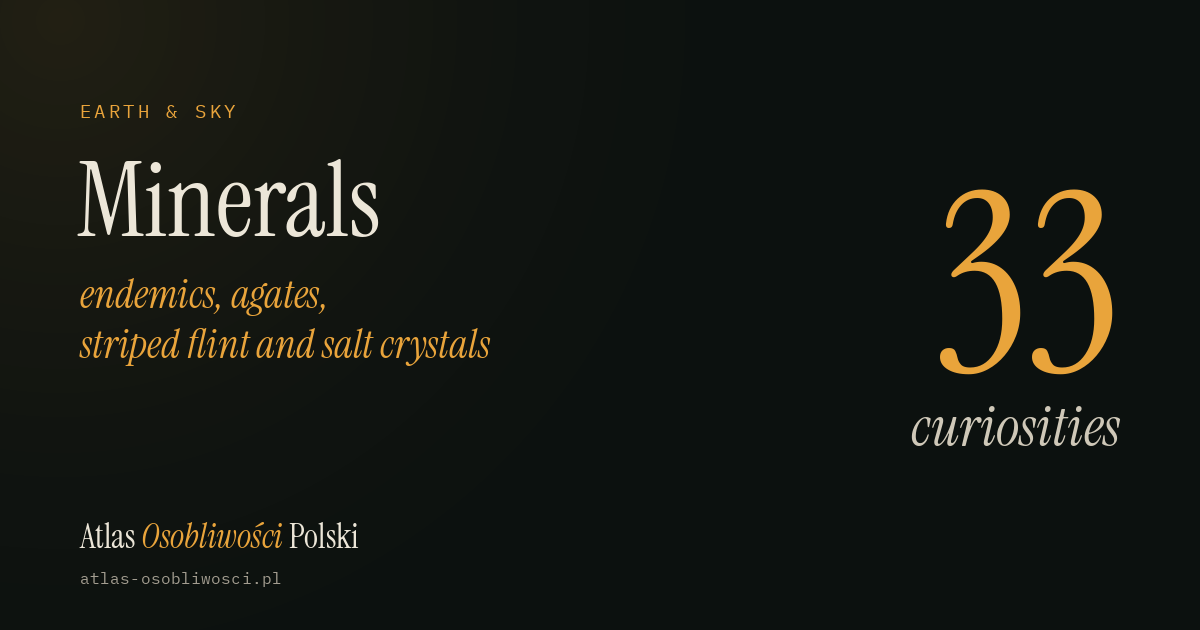
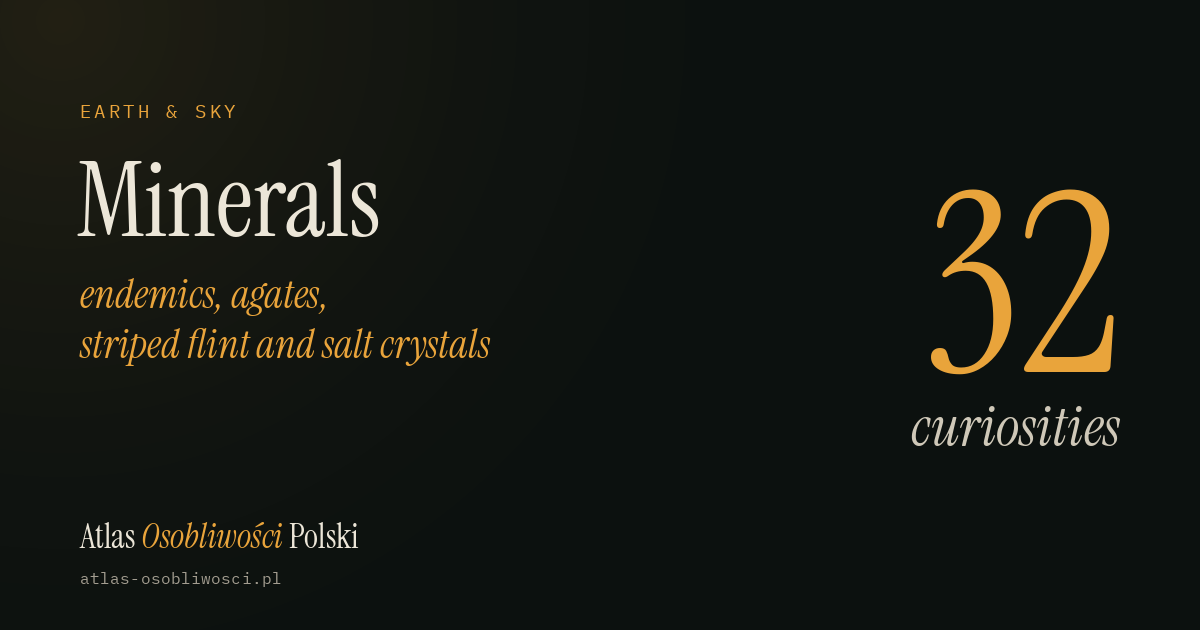
content: F0801 after the Elements page; "Berylokordieryt-Na" withdrawn (IMA discredited it in 2025)
Robert uploaded the PDF of the Elements page (20(2): 134, April 2024) that
F0801 cites; the site itself shows a Cloudflare challenge. Two independent
reads and a judge:
- the page confirms the formula, IMA 2022-109 and the kinship with
  cordierite, but never compares the mineral with beryllocordierite-Na, so
  "the manganese sibling of beryllocordierite-Na" was our own inference;
- CNMNC Newsletter 87 (Mineralogical Magazine 89, 26.09.2025,
  doi:10.1180/mgm.2025.10163): "The minerals avdeevite and
  beryllocordierite-Na have been discredited; beryllosachanbińskiite-Na has
  been redefined to sachanbińskiite".
F0801 (corrected, Newsletter 87 added): "Zatwierdzony przez IMA jako
berylosachanbińskiit-Na: NaMn₄(Al₅Be)(AlSi₅O₁₈)₂·2H₂O (IMA 2022-109). Miejsce
typowe: pegmatyt koło Szklar." / "Approved by the IMA as …".

By Robert's decision the card "Berylokordieryt-Na", which still presented the
discredited mineral as new, leaves the atlas: WITHDRAWN.cards with the reason;
the card, its English texts and its stand-in photo are removed; "Minerały" has
32 cards (subtitle and count label in PL and EN, collection test); the search
index, start page, map points and the minerals link-preview images are
rebuilt. Its two facts (F0799, F0800) stay in the facts file, hidden, as the
validator allows. The atlas now shows 1456 facts on 627 cards: 860 verified,
536 corrected, 60 checked. Docs: sprawdzenie-checked-2026-11.md and
README-weryfikacja.md.
[…]

Changed region(s): [[0.7708, 0.3016, 0.925, 0.6032]]

diff --git a/data/collections.js b/data/collections.js
@@ -174,9 +174,9 @@
       group: "ziemia-niebo",
       title: "Minerały",
       heading: "Osobliwe minerały Polski",
-      subtitle: "33 mineralogiczne osobliwości Polski: endemity IMA, kruszce, sole, agaty, krzemień pasiasty, bursztyn i minerały z dawnych kopalń.",
+      subtitle: "32 mineralogiczne osobliwości Polski: endemity IMA, kruszce, sole, agaty, krzemień pasiasty, bursztyn i minerały z dawnych kopalń.",
       teaser: "endemity, agaty, krzemień pasiasty i kryształy soli",
-      count_label: "33 osobliwości",
+      count_label: "32 osobliwości",
       card_labels: { region: "Miejsce", habitat: "Środowisko geologiczne" },
       icon: "M",
       accent: "stone",
@@ -465,7 +465,8 @@
       "formacje-skalne/zezow-czarne-dzialy": "Zęzów i Czarne Działy: nie wiadomo, o które miejsce chodzi; potwierdzona jest tylko wysokość Zęzowa (C111).",
       "skamienialosci/tholodus-schmidi": "Tholodus schmidi: brak publikacji o znaleziskach z Polski (C127).",
       "architektura-drewniana/chata-na-wysokosci": "Chata na Wysokości: prywatna kwatera, historia tylko według właścicieli, bez ciekawostek i bez zdjęcia obiektu (C144).",
-      "atmosfera-astronomia/rekord-godziszow-zadni-gerlach": "Godziszów i Zadni Gerlach: rekordowego zdjęcia z 30.01.2025 (246,1 km) nie potwierdza żadne niezależne źródło, a widok Tatr z daleka opisuje karta „Tatry z Wyżyny Lubelskiej” (31.10.2026)."
+      "atmosfera-astronomia/rekord-godziszow-zadni-gerlach": "Godziszów i Zadni Gerlach: rekordowego zdjęcia z 30.01.2025 (246,1 km) nie potwierdza żadne niezależne źródło, a widok Tatr z daleka opisuje karta „Tatry z Wyżyny Lubelskiej” (31.10.2026).",
+      "mineraly/berylokordieryt-na": "Berylokordieryt-Na: Komisja IMA-CNMNC zdyskredytowała ten minerał we wrześniu 2025 r. (CNMNC Newsletter 87, Mineralogical Magazine 89, doi:10.1180/mgm.2025.10163), więc nie jest już uznanym minerałem. Historię minerałów ze Szklar opowiada karta Sachanbińskiit."
     },
     facts: {},
     numbers: []

diff --git a/data/facts/mineraly.facts.js b/data/facts/mineraly.facts.js
@@ -348,8 +348,8 @@ window.ATLAS_FACTS["mineraly"] = {
     {
      "id": "F0801",
      "icon": "🆕",
-     "pl": "Manganowy „brat” berylokordierytu-Na: NaMn₄(Al₅Be)(AlSi₅O₁₈)₂·2H₂O (IMA 2022-109), także ze Szklar.",
-     "en": "The manganese “sibling” of beryllocordierite-Na: NaMn₄(Al₅Be)(AlSi₅O₁₈)₂·2H₂O (IMA 2022-109), also from Szklary.",
+     "pl": "Zatwierdzony przez IMA jako berylosachanbińskiit-Na: NaMn₄(Al₅Be)(AlSi₅O₁₈)₂·2H₂O (IMA 2022-109). Miejsce typowe: pegmatyt koło Szklar.",
+     "en": "Approved by the IMA as beryllosachanbińskiite-Na: NaMn₄(Al₅Be)(AlSi₅O₁₈)₂·2H₂O (IMA 2022-109). Type locality: a pegmatite near Szklary.",
      "sources": [
       {
        "url": "https://doi.org/10.2138/gselements.20.2.134",
@@ -362,9 +362,13 @@ window.ATLAS_FACTS["mineraly"] = {
       {
        "url": "https://doi.org/10.1180/mgm.2023.21",
        "label": "doi.org"
+      },
+      {
+       "url": "https://doi.org/10.1180/mgm.2025.10163",
+       "label": "doi.org"
       }
      ],
-     "status": "checked"
+     "status": "corrected"
     },
     {
      "id": "F0802",

diff --git a/data/i18n/mineraly.en.js b/data/i18n/mineraly.en.js
@@ -58,17 +58,6 @@ window.ATLAS_ITEM_TEXT_EN["mineraly"] = {
     "level": "scientific jewel",
     "latin": "sodium-calcium amphibole with Sc"
   },
-  "berylokordieryt-na": {
-    "name": "Beryllocordierite-Na",
-    "hook": "A new mineral from the Szklary Massif is a reminder that beryllium does not always end up as a showy beryl crystal.",
-    "quiz_angle": "beryllium, sodium, the Szklary pegmatites and structural kinship with cordierite",
-    "safety_note": "Do not break up pegmatite veins in the field; sites of rare minerals are easy to destroy.",
-    "region": "The Szklary Massif in Lower Silesia.",
-    "habitat": "Pegmatite veins and rocks strongly enriched in light elements.",
-    "occurrence": "In the atlas it shows the stage at which pegmatite chemistry becomes so specialized that new phases form.",
-    "level": "micro-curiosity",
-    "latin": "hydrated beryllium silicate"
-  },
   "berylosachanbinskiit-na": {
     "name": "Sachanbińskiite",
     "hook": "One of the most specialized cards in the collection: a beryllium-manganese mineral from Polish pegmatites.",

diff --git a/data/search-index.js b/data/search-index.js
@@ -285,7 +285,6 @@ window.ATLAS_SEARCH = {
     ["mineraly","taliomelan","Taliomelan","Thalliomelane","tlenek manganu i talu (grupa koronadytu)","manganese thallium oxide (coronadite group)"],
     ["mineraly","heflikit","Heflikit","Heflikite","minerał supergrupy epidotu ze skandem","epidote-supergroup mineral with scandium"],
     ["mineraly","skandiowinchit","Skandiowinchit","Scandio-winchite","amfibol sodowo-wapniowy ze Sc","sodium-calcium amphibole with Sc"],
-    ["mineraly","berylokordieryt-na","Berylokordieryt-Na","Beryllocordierite-Na","uwodniony krzemian berylu","hydrated beryllium silicate"],
     ["mineraly","berylosachanbinskiit-na","Sachanbińskiit","Sachanbińskiite","glinokrzemian berylu i manganu (grupa kordierytu)","beryllium manganese aluminosilicate (cordierite group)","Berylosachanbińskiit-Na"],
     ["mineraly","magnesiodutrowit","Magnesiodutrowit","Magnesio-dutrowite","turmalin magnezowy","magnesium tourmaline"],
     ["mineraly","krzemien-pasiasty","Krzemień pasiasty","Striped flint","SiO2 - kwarc, chalcedon i opal","SiO2 - quartz, chalcedony and opal"],

diff --git a/data/minerals.js b/data/minerals.js
@@ -88,19 +88,6 @@
       level: "naukowy klejnot"
     }),
     entry({
-      id: "berylokordieryt-na",
-      name_pl: "Berylokordieryt-Na",
-      name_lat: "uwodniony krzemian berylu",
-      category: "endemity-nowe-mineraly",
-      hook: "Nowy minerał z masywu Szklar przypomina, że beryl nie zawsze kończy jako efektowny kryształ berylu.",
-      quiz_angle: "beryl, sód, pegmatyty Szklar i strukturalne pokrewieństwo z kordierytem",
-      safety_note: "nie rozbijać żył pegmatytowych w terenie; stanowiska rzadkich minerałów są łatwe do zniszczenia",
-      region_pl: "Masyw Szklar na Dolnym Śląsku.",
-      habitat_pl: "Żyły pegmatytowe i skały silnie wzbogacone w pierwiastki lekkie.",
-      occurrence_note: "W atlasie pokazuje etap, w którym chemia pegmatytu staje się tak wyspecjalizowana, że powstają nowe fazy.",
-      level: "mikroosobliwość"
-    }),
-    entry({
       id: "berylosachanbinskiit-na",
       name_pl: "Sachanbińskiit",
       name_lat: "glinokrzemian berylu i manganu (grupa kordierytu)",

diff --git a/data/i18n.js b/data/i18n.js
@@ -874,9 +874,9 @@
         mineraly: {
           title: "Minerals",
           heading: "Unusual Minerals of Poland",
-          subtitle: "33 mineralogical curiosities of Poland: IMA endemics, ores, salts, agates, striped flint, amber and minerals from old mines.",
+          subtitle: "32 mineralogical curiosities of Poland: IMA endemics, ores, salts, agates, striped flint, amber and minerals from old mines.",
           teaser: "endemics, agates, striped flint and salt crystals",
-          count_label: "33 curiosities",
+          count_label: "32 curiosities",
           card_labels: { region: "Location", habitat: "Geological setting" },
           search_placeholder: "e.g. flint, sulfur, halite, agate...",
           safety_notice: "For educational purposes. Observe minerals without damaging sites: do not enter abandoned mines, break protected rocks, collect toxic or radioactive ores, or run home chemistry experiments.",

diff --git a/data/mineral-photo-pack-v01.js b/data/mineral-photo-pack-v01.js
@@ -64,13 +64,6 @@
       "CC BY 4.0",
       ccBy40
     ),
-    "berylokordieryt-na": photo(
-      "Beryl-119311.jpg",
-      "Kadr reprezentatywny: kryształ berylu jako wizualny kontekst dla berylokordierytu-Na",
-      robLavinsky,
-      "CC BY-SA 3.0",
-      ccBySa30
-    ),
     "berylosachanbinskiit-na": photo(
       "Beryl-23651.jpg",
       "Kadr reprezentatywny: beryl w pegmatycie jako kontekst dla sachanbińskiitu",

diff --git a/data/start-page.js b/data/start-page.js
@@ -3,7 +3,7 @@
 // each collection drawer and the numbers under the hero.
 window.ATLAS_START = {
   "stats": {
-    "cards": 633,
+    "cards": 632,
     "places": 240,
     "photos": 617
   },

diff --git a/docs/content/sprawdzenie-checked-2026-11.md b/docs/content/sprawdzenie-checked-2026-11.md
@@ -258,8 +258,17 @@ Potem Robert dopuścił `www.cambridge.org` i `pubs.geoscienceworld.org`. Strony
 
 Karty tych ciekawostek nie powtarzają poprawionych sformułowań.
 
-## Zostaje `checked` (61)
+### Uzupełnienie: F0801 i karta „Berylokordieryt-Na”
 
-Źródła, które je potwierdziły, nadal się stąd nie otwierają, a czytelne strony nie mówią wszystkiego. Najwięcej jest ich w szufladach „Skamieniałości” (15) i „Minerały” (7). Potrzebują stron z 93 różnych adresów, każdy dla jednej albo dwóch ciekawostek (m.in. `mindat.org`, `ejm.copernicus.org`, `journals.plos.org`, `pmc.ncbi.nlm.nih.gov`, `tandfonline.com`, `pubs.geoscienceworld.org`, portale informacyjne). Gdy zostaną dopuszczone, te ciekawostki można sprawdzić tak samo.
+Robert przesłał PDF strony z „Elements” (20(2): 134, kwiecień 2024), na którą prowadzi źródło F0801; sama strona jest za blokadą Cloudflare. Dwa niezależne odczyty i rozstrzygnięcie trzeciego:
+- Strona potwierdza wzór NaMn₄(Al₅Be)(AlSi₅O₁₈)₂·2H₂O, numer IMA 2022-109 i pokrewieństwo z kordierytem, ale nie porównuje minerału z berylokordierytem-Na. „Manganowy »brat« berylokordierytu-Na” to więc nasz wniosek z dwóch wzorów.
+- Biuletyn CNMNC nr 87 (Mineralogical Magazine 89, 26 września 2025 r., doi:10.1180/mgm.2025.10163): „The minerals avdeevite and beryllocordierite-Na have been discredited; beryllosachanbińskiite-Na has been redefined to sachanbińskiite”. Berylokordieryt-Na nie jest już uznanym minerałem.
+- F0801 (`corrected`, dopisany biuletyn nr 87): „Zatwierdzony przez IMA jako berylosachanbińskiit-Na: NaMn₄(Al₅Be)(AlSi₅O₁₈)₂·2H₂O (IMA 2022-109). Miejsce typowe: pegmatyt koło Szklar.”
 
-Teraz atlas ma 1458 ciekawostek: 862 `verified`, 535 `corrected` i 61 `checked`.
+Karta „Sachanbińskiit” już wcześniej podawała zmianę nazwy z 2025 r. Karta „Berylokordieryt-Na” przedstawiała natomiast zdyskredytowany minerał jako nowy. Decyzją Roberta karta wychodzi z atlasu (`WITHDRAWN.cards` w `data/collections.js`, z powodem). Szuflada „Minerały” ma teraz 32 karty. Dwie ciekawostki tej karty (F0799, F0800) zostają w pliku, ale strona ich nie pokazuje.
+
+## Zostaje `checked` (60)
+
+Źródła, które je potwierdziły, nadal się stąd nie otwierają, a czytelne strony nie mówią wszystkiego. Najwięcej jest ich w szufladach „Skamieniałości” (15) i „Minerały” (6). Potrzebują stron z 93 różnych adresów, każdy dla jednej albo dwóch ciekawostek (m.in. `mindat.org`, `ejm.copernicus.org`, `journals.plos.org`, `pmc.ncbi.nlm.nih.gov`, `tandfonline.com`, `pubs.geoscienceworld.org`, portale informacyjne). Gdy zostaną dopuszczone, te ciekawostki można sprawdzić tak samo.
+
+Teraz atlas pokazuje 1456 ciekawostek na 627 kartach: 860 `verified`, 536 `corrected` i 60 `checked`. Dwie ciekawostki wycofanej karty „Berylokordieryt-Na” zostają w pliku jako ukryte.

diff --git a/docs/content/README-weryfikacja.md b/docs/content/README-weryfikacja.md
@@ -77,9 +77,11 @@ Potem Robert dopuścił kolejne strony (m.in. `eli.gov.pl` z pełnymi tekstami u
 
 Na koniec dopuszczono `www.cambridge.org` i `pubs.geoscienceworld.org`. Strony Cambridge się otwierają, a `pubs.geoscienceworld.org` zatrzymuje każde zapytanie spoza przeglądarki stroną Cloudflare, więc nadal jest nieczytelne. Spośród 12 ciekawostek ze źródłami na tych stronach 6 ma teraz status `verified` (3 po dopisaniu czytelnego źródła, głównie biuletynu komisji nowych minerałów IMA), 2 mają nowe brzmienie (F0788, F1019), a 4 zostają `checked`.
 
-Pozostały 61 ciekawostek `checked`. Czekają na strony z 93 adresów, które nadal są zablokowane. Szczegóły, wszystkie poprawki i dopisane źródła: [sprawdzenie-checked-2026-11.md](sprawdzenie-checked-2026-11.md).
+Robert przesłał też PDF strony z „Elements”, która stąd się nie otwiera. Po jej lekturze F0801 ma nowe brzmienie (`corrected`). Biuletyn CNMNC nr 87 pokazał przy tym, że IMA zdyskredytowała we wrześniu 2025 r. berylokordieryt-Na. Decyzją Roberta karta „Berylokordieryt-Na” wyszła z atlasu (`WITHDRAWN.cards`), a szuflada „Minerały” ma 32 karty.
 
-Teraz atlas ma 1458 ciekawostek na 628 kartach: 61 `checked`, 862 `verified` i 535 `corrected`.
+Pozostało 60 ciekawostek `checked`. Czekają na strony z ok. 90 adresów, które nadal są zablokowane. Szczegóły, wszystkie poprawki i dopisane źródła: [sprawdzenie-checked-2026-11.md](sprawdzenie-checked-2026-11.md).
+
+Teraz atlas pokazuje 1456 ciekawostek na 627 kartach: 60 `checked`, 860 `verified` i 536 `corrected`. Dwie ciekawostki wycofanej karty zostają w pliku jako ukryte.
 
 **Od tej pory ciekawostki poprawia się w `data/facts/*.facts.js`, także w szufladzie rekordów.** Każda potrzebuje źródła i statusu według tabeli wyżej. Ciekawostkę, która czeka na poprawkę, można ukryć w `data/collections.js` (`WITHDRAWN.facts`, z powodem). `npm run test:facts` pilnuje, żeby nie wróciło to, co sprawdzenia z 28–31.10.2026 usunęły albo poprawiły, pod żadnym id i w żadnym języku:
 - ciekawostki usuniętych kart i teksty ciekawostek pominiętych;
